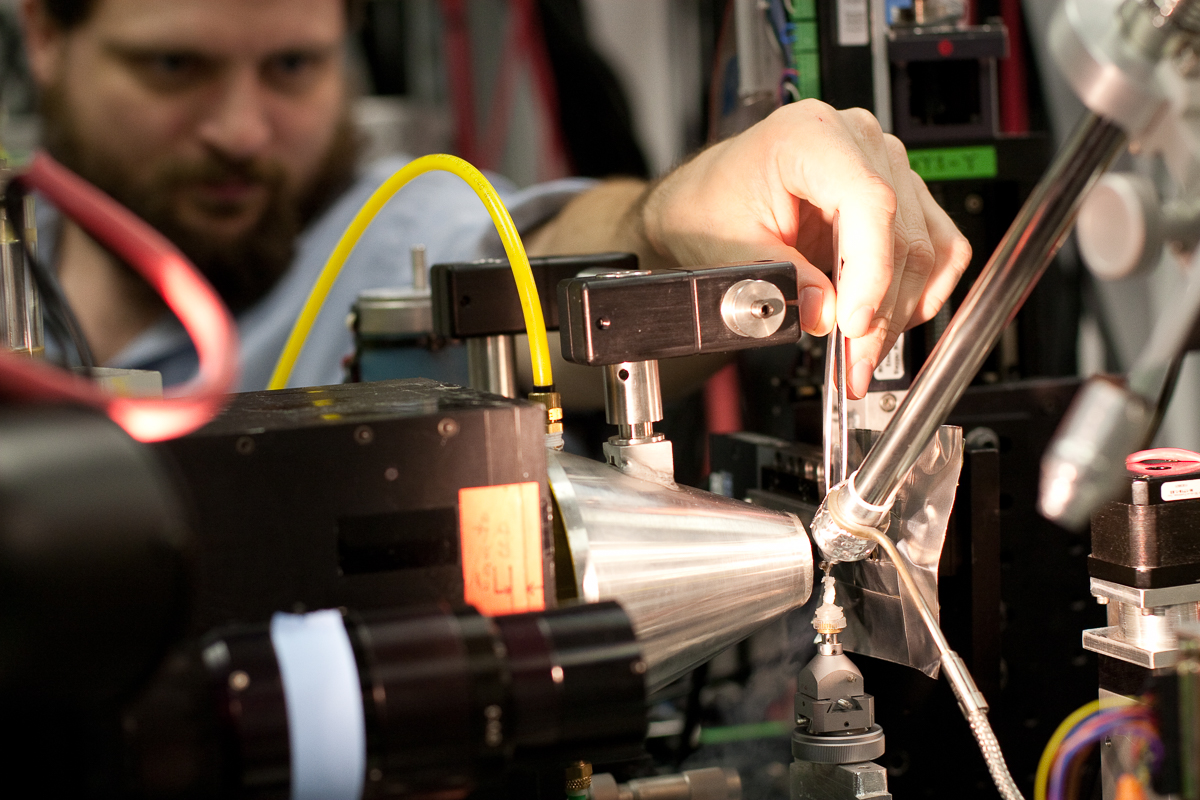
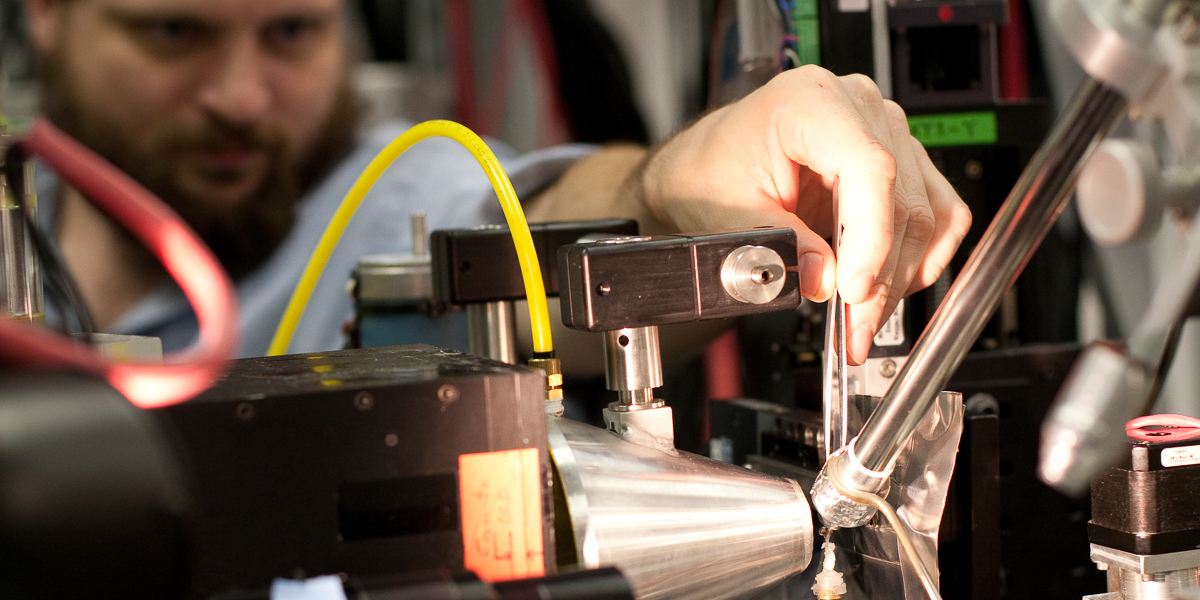
Added images, modified a bit of text.

diff --git a/content/pages/about_detectors.rst b/content/pages/about_detectors.rst
@@ -3,14 +3,59 @@
 :slug: detectors
 
 
-Fully developed and commissioned detectors for the beamline include a high
-sensitivity, high spatial resolution Aviex PCCD1680 (80 x 160mm, 39 µm pixels,
-5 ADU/12 keV X-ray photon), and MAR165 CCD (165 mm diameter active area,
-standard mode 2k x 2k 80 µm pixels, ~1 ADU/ 12 keV X-ray photon) detectors.
-The MAR detector has been upgraded with baseline stabilization electronics
-and a thinner phosphor (~65 µm psf function) so it can be used in unbinned
-mode with 40 µm pixels. We have two Pilatus 100k pixel array detectors (84 x
-33.5 mm active area, 170 µm pixel, photon counting) and a Fuji Bas2500 image
-plate scanner. For equilibrium and time resolved macromolecular SAXS we have a
-Pilatus 3 1M detector that is 981 x 1043 \, 172 x 172 µm2 pixels for a 170 x
-180 mm2 active area, photon-counting detector able to read at 500 fps.
+The beamline has an array of detectors to enable different experiments. Below are listed
+the types and specific detectors routinely available at the beamline. BioCAT
+also has an array of legacy detectors that can be used as backup or supplements for
+these systems.
+
+CCD Detectors
+==============
+
+CCD detectors are an older technology, and benefit from smaller pixel sizes than
+the pixel array detectors. However, they suffer from generally slower readouts,
+non-zero dark current, relatively low dynamic range, and large point spread
+functions due to their phosphor screens.
+
+BioCAT has the following CCD detector routinely available:
+
+*   **MAR165** - A detector with a165 mm diameter active area, standard mode 2k x 2k 80 µm
+    pixels, ~1 ADU/ 12 keV X-ray photon. The MAR detector has been upgraded with
+    baseline stabilization electronics and a thinner phosphor (~65 µm psf function)
+    so it can be used in unbinned mode with 40 µm pixels.
+
+Pixel Array Detectors
+=======================
+
+Pixel Array Detectors (PADs) are newer, photon counting detectors. They generally have
+larger pixel sizes than CCD detectors, but provide a number of benefits: fast read
+out times, zero dark current, high dynamic range, and no (1 pixel) point spread functions.
+
+BioCAT has the following PADs routinely available:
+
+*   **Pilatus3 X 1M** - A detector with 981 x 1043 172 µm pixels and a
+    168.7 x 179.4 mm\ :sup:`2` active area, able to frame at up to 500 Hz.
+
+*   **Merlin** x2 - Two detectors based on the Medipix3 chip with 55 µm
+    pixels and capable of framing continuously at 200 Hz or for ~ 1 s burst at 1000 Hz.
+    BioCAT has two form factors, one with 256 x 1024 pixels for an active area
+    of 14 x 56 mm\ :sup:`2`. The other with 512 x 512 55 µm pixels for an active
+    area 28.2 x 28.2 mm\ :sup:`2`. Their very small packaging allows them to be
+    used in combination with other detectors to provide high spatial resolution in selected
+    parts of a pattern.
+
+BioCAT is in the process of aquiring the following detector, we expect it to be
+available in early 2019:
+
+*   **EIGER X 500K** - A detector with 1030 x 514 75 µm pixels and a 77.2 x
+    38.6 mm\ :sup:`2` active area, able to frame at up to 3 kHz.
+
+Silicon Drift Detectors
+============================
+
+Silicon drift detectors are energy resolving detectors with relatively high count rates.
+
+BioCAT has the following silicon drift detector routinely available:
+
+*   **Vortex** - A four-element detector with each element having 50 x 50 mm\ :sup:`2`
+    active area. The Vortex detector uses the XIA DXP-XMAP electronics for
+    collection and analysis of fluorescent signals.

diff --git a/content/pages/users_howto_fiber_design.rst b/content/pages/users_howto_fiber_design.rst
@@ -12,25 +12,8 @@ trial camera length in mm. Knowing the dimensions of the backstop and the detect
 active area, one can find the optimal camera length for your application by adjusting
 it in the application by trial and error.
 
-The following area detectors are available at the beamline:
-
-*   The Pilatus3 X 1M detector has 981 x 1043 172 µm pixels (168.7 x 179.4
-    mm\ :sup:`2` active area) and can be read out at 500 fps.
-*   The Pilatus 100K detector has 497 x 195 172 µm pixels (83.8 x 33.5 mm\ :sup:`2`
-    active area) and can be read out at 200 fps
-*   The MAR165 CCD detector has a circular active area 165 mm in diameter with
-    pixels just under 80 µm square (2x2 binned). It can also be used unbinned
-    for 4k x 4k 40 µm pixels.
-*   There are two Merlin pixel array detectors.The first one has 256 x 1024 55
-    µm pixels for an active area of 14 x 56 mm\ :sup:`2` and the second one is 512 x
-    512 55 µm pixels for an active area 28.2 x 28.2 mm\ :sup:`2`. Both detectors,
-    based on the Medipix3 chip are direct detecting photon counting detectors
-    capable of running continuously at 200 HZ or for ~ 1 s burst at 1000 Hz.
-    Their very small packaging allows them to be used in combination with other
-    detectors to provide high resolution in selected parts of a pattern.
-*   The EIGER X 500K pixel array detector. This photon counting, direct detection
-    detector has  1030 x 514 75 µm pixels (active area 77.2 x 38.6 mm\ :sup:`2`) and
-    can run continuously at 3 kHz. *This detector should be available by early 2019.*
+BioCAT provides `several area detectors <{filename}/pages/about_detectors.rst>`_
+for these experiments. Most users use either Pilatus or Mar detector.
 
 For small angle fiber diffraction experiments, the available range of camera
 lengths go from approximately 1 to 9 m with 2-3 m being the most commonly used

diff --git a/content/pages/users.rst b/content/pages/users.rst
@@ -72,7 +72,7 @@ continue operating the BioCAT facility.
 
         .. thumbnail::
 
-            .. image:: {filename}/images/conf.jpg
+            .. image:: {filename}/images/safety.jpg
                 :class: img-rounded
 
             .. caption::
@@ -143,7 +143,7 @@ continue operating the BioCAT facility.
 
         .. thumbnail::
 
-            .. image:: {filename}/images/conf.jpg
+            .. image:: {filename}/images/computing.jpg
                 :class: img-rounded
 
             .. caption::

diff --git a/content/pages/index.rst b/content/pages/index.rst
@@ -20,7 +20,7 @@
           <!-- Wrapper for slides -->
           <div class="carousel-inner">
             <div class="item active">
-              <img src="/images/carousel/conf.jpg" alt="Beamtime at BioCAT" style="width:100%">
+              <img src="/images/carousel/happy_users.jpg" alt="Beamtime at BioCAT" style="width:100%">
               <div class="carousel-caption">
                 <h3>Get Beamtime</h3>
                 <p>BioCAT is a national user facility funded by the NIH,

diff --git a/README.md b/README.md
@@ -73,8 +73,9 @@ of those changes. To stop the devserver run
 
 ## Notes about image formats
 
-Staff images should be cropped to a square (1:1 aspect ratio)
-Carousel images should be cropped to a 2:1 aspect ratio.
+* Staff images should be cropped to a square (1:1 aspect ratio), 750x750 px
+* Carousel images and top of page images should be cropped to a 2:1 aspect ratio, 1200x600
+* Thumbnail images should be 750x500 px
 
 ## Useful links
 

diff --git a/content/pages/about_biocat.rst b/content/pages/about_biocat.rst
@@ -46,7 +46,7 @@
 
         .. thumbnail::
 
-            .. image:: {filename}/images/conf.jpg
+            .. image:: {filename}/images/fiber_diffraction.jpg
                 :class: img-rounded
 
             .. caption::
@@ -68,7 +68,7 @@
 
         .. thumbnail::
 
-            .. image:: {filename}/images/conf.jpg
+            .. image:: {filename}/images/microbeam.jpg
                 :class: img-rounded
 
             .. caption::
